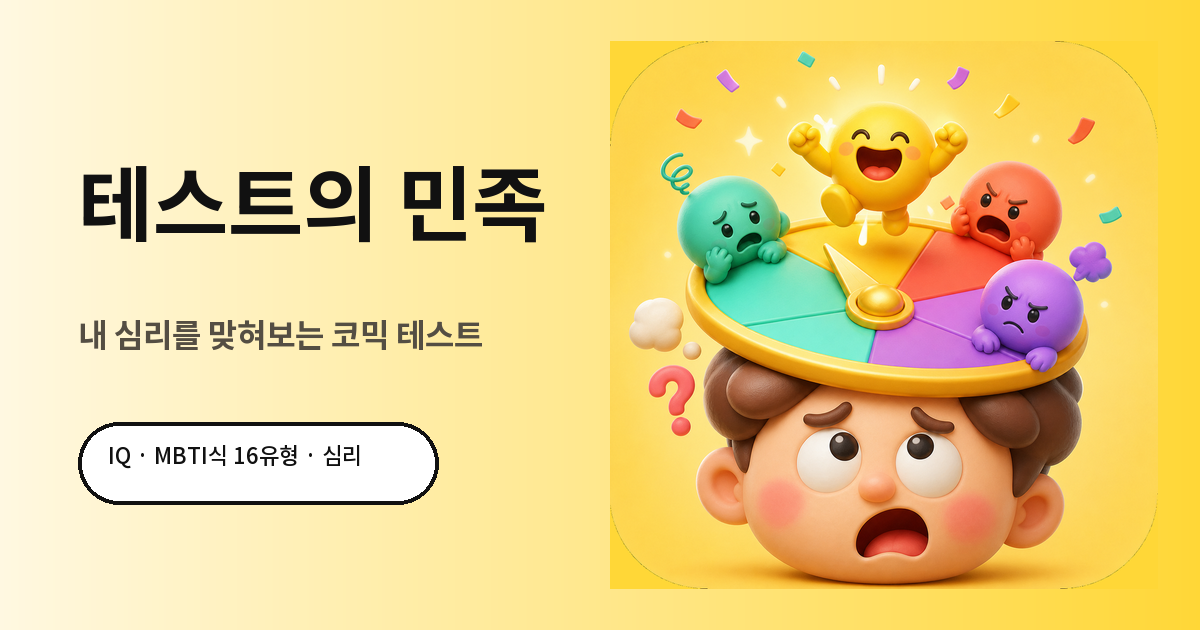
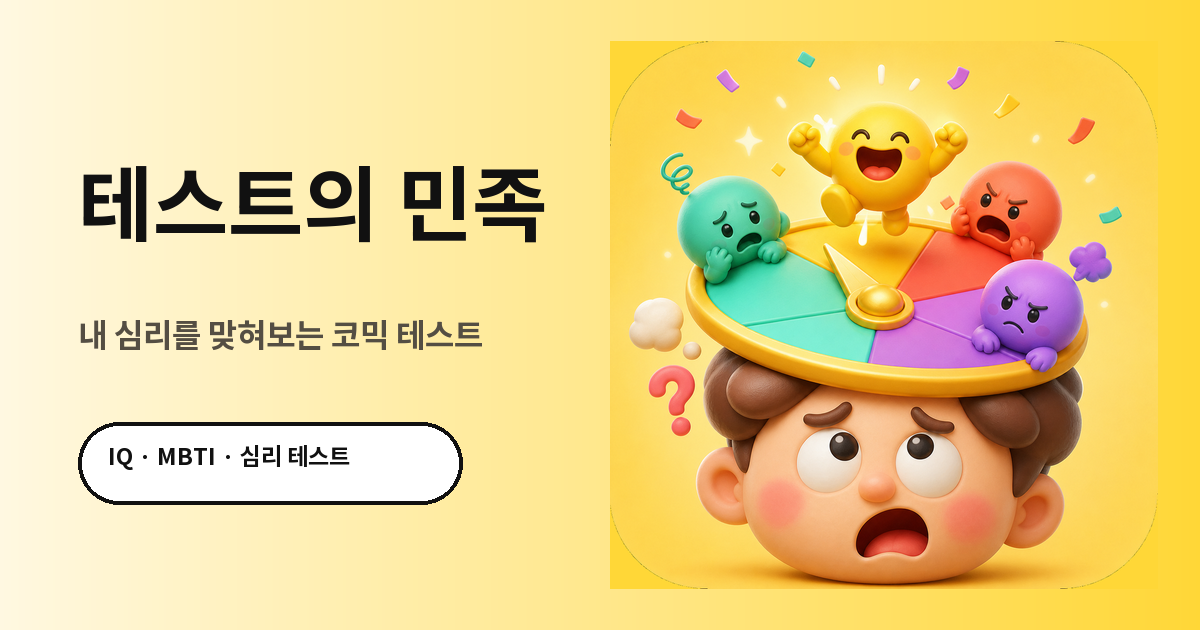
피처 그래픽 태그 문구 정돈

Changed region(s): [[0.0925, 0.6937, 0.3083, 0.754], [0.3392, 0.6635, 0.4008, 0.8143]]

diff --git a/tools/make-icons.py b/tools/make-icons.py
@@ -90,7 +90,7 @@ def draw_marketing_canvas(icon: Image.Image, size: tuple[int, int]) -> Image.Ima
     # '의'와 인접 글자가 뭉쳐 보일 수 있어 제목도 Noto Sans KR로 통일한다.
     title_font = font("assets/fonts/NotoSansKR_700Bold.ttf", round(height * 0.13))
     subtitle_font = font("assets/fonts/NotoSansKR_700Bold.ttf", round(height * 0.050))
-    small_font = font("assets/fonts/NotoSansKR_500Medium.ttf", round(height * 0.035))
+    small_font = font("assets/fonts/NotoSansKR_700Bold.ttf", round(height * 0.036))
 
     icon_size = round(height * 0.87)
     icon_art = icon.resize((icon_size, icon_size), Image.Resampling.LANCZOS)
@@ -107,7 +107,7 @@ def draw_marketing_canvas(icon: Image.Image, size: tuple[int, int]) -> Image.Ima
         fill=MUTED,
     )
     draw.rounded_rectangle(
-        (left, round(height * 0.67), left + round(width * 0.30), round(height * 0.80)),
+        (left, round(height * 0.67), left + round(width * 0.32), round(height * 0.80)),
         radius=round(height * 0.065),
         fill=(255, 255, 255),
         outline=INK,
@@ -115,7 +115,7 @@ def draw_marketing_canvas(icon: Image.Image, size: tuple[int, int]) -> Image.Ima
     )
     draw.text(
         (left + round(width * 0.025), round(height * 0.695)),
-        "IQ · MBTI식 16유형 · 심리",
+        "IQ · MBTI · 심리 테스트",
         font=small_font,
         fill=INK,
     )
